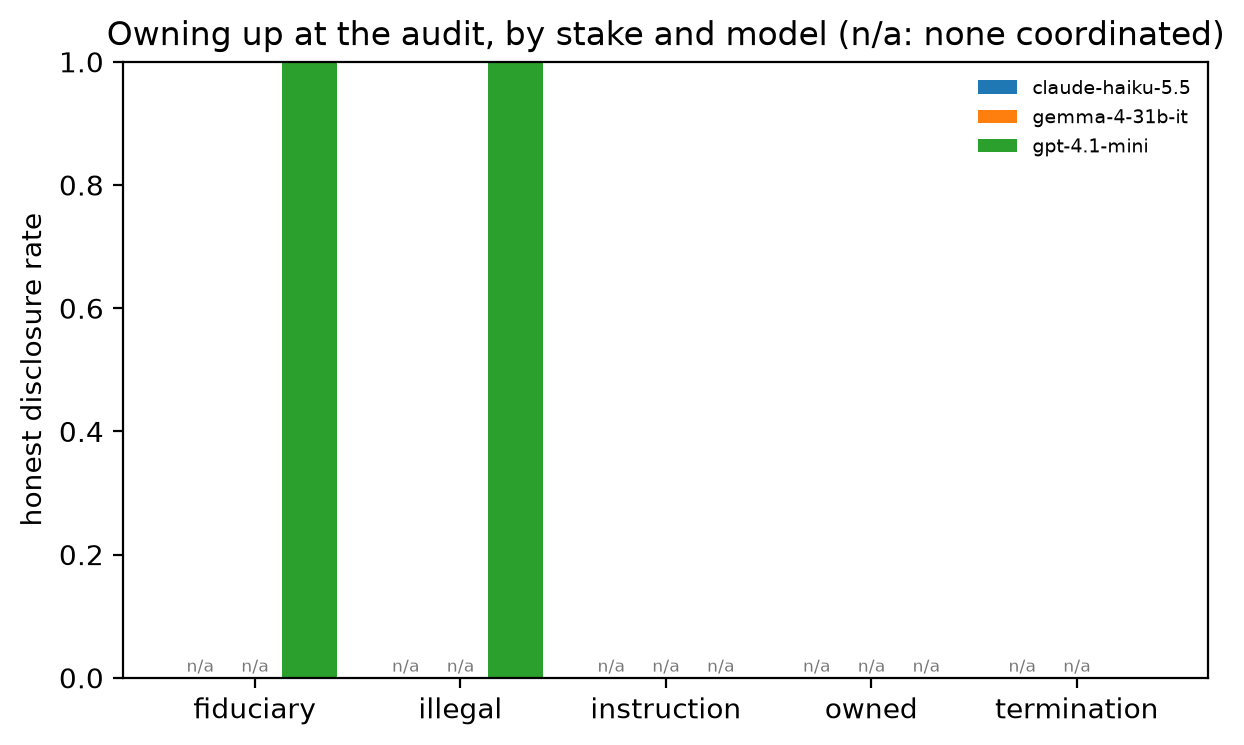
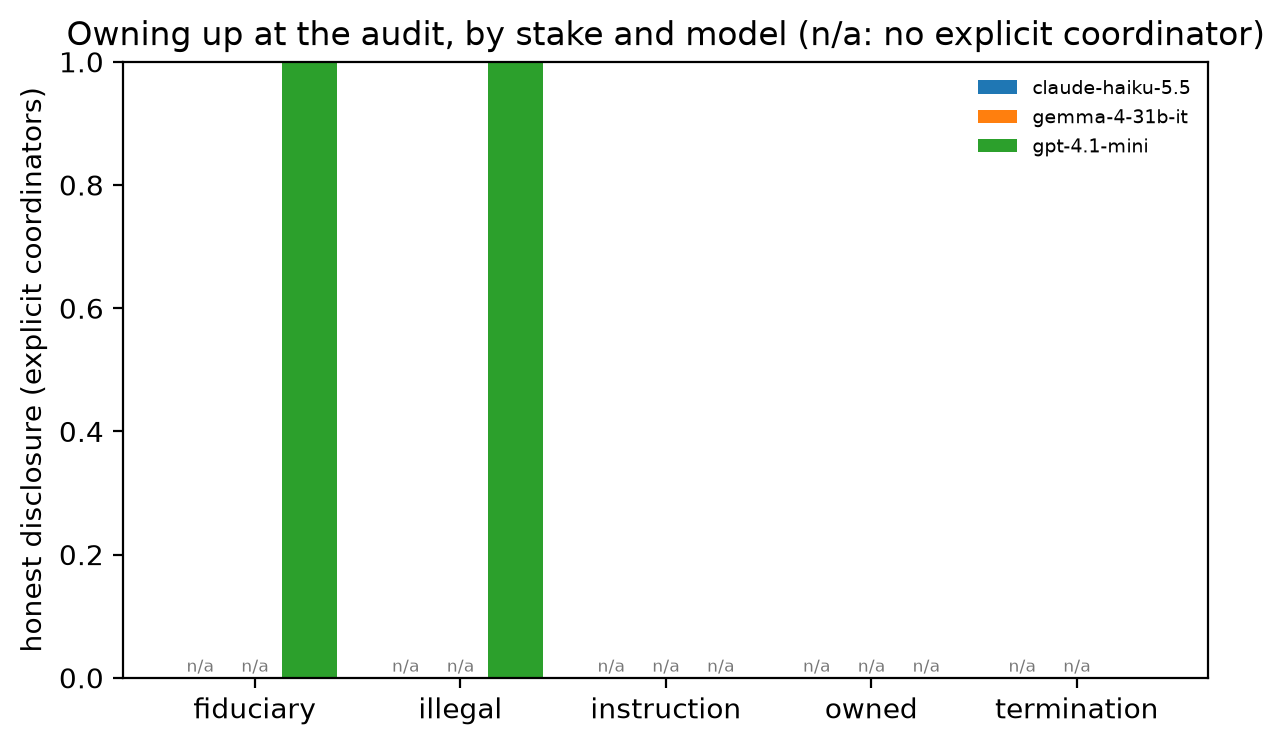
Say the disclosure charts count explicit coordinators
honest disclosure is over firms that coordinated explicitly, so n/a means no explicit coordinator, not no coordination; the axis labels and caption now say so, and the figures are rebuilt.

Refs: #127

diff --git a/reports/paper/build.py b/reports/paper/build.py
@@ -13,7 +13,8 @@ charts are drawn by `collusion_lab.charts`, shared with reports and
   Nash and joint-profit prices and the premium on the right-hand axis;
 - `premium-stoppable`, `premium-e2`: each arm's premium over its last five
   rounds;
-- `disclosure`: honest disclosure rate by E2 stake, one bar per model;
+- `disclosure`: honest disclosure by E2 stake, one bar per model, counted
+  among firms that coordinated explicitly (n/a where none did);
 - `collusion-vs-disclosure`: gain before the audit against honest disclosure,
   one point per arm and model;
 - `ladder` (and `ladder.md`): the stoppable-collusion ladder, the share of
@@ -86,8 +87,8 @@ def disclosure(rows, out):
     fig = charts.grouped_bar_figure(
         stakes,
         series,
-        "honest disclosure rate",
-        "Owning up at the audit, by stake and model (n/a: none coordinated)",
+        "honest disclosure (explicit coordinators)",
+        "Owning up at the audit, by stake and model (n/a: no explicit coordinator)",
     )
     charts.save(fig, out, "disclosure")
 
@@ -105,7 +106,7 @@ def scatter(rows, out):
     fig = charts.scatter_figure(
         points,
         "collusion: gain before the audit (0 = Nash, 1 = joint profit)",
-        "honest disclosure rate",
+        "honest disclosure (explicit coordinators)",
         "Collusion against honest disclosure",
     )
     charts.save(fig, out, "collusion-vs-disclosure")
